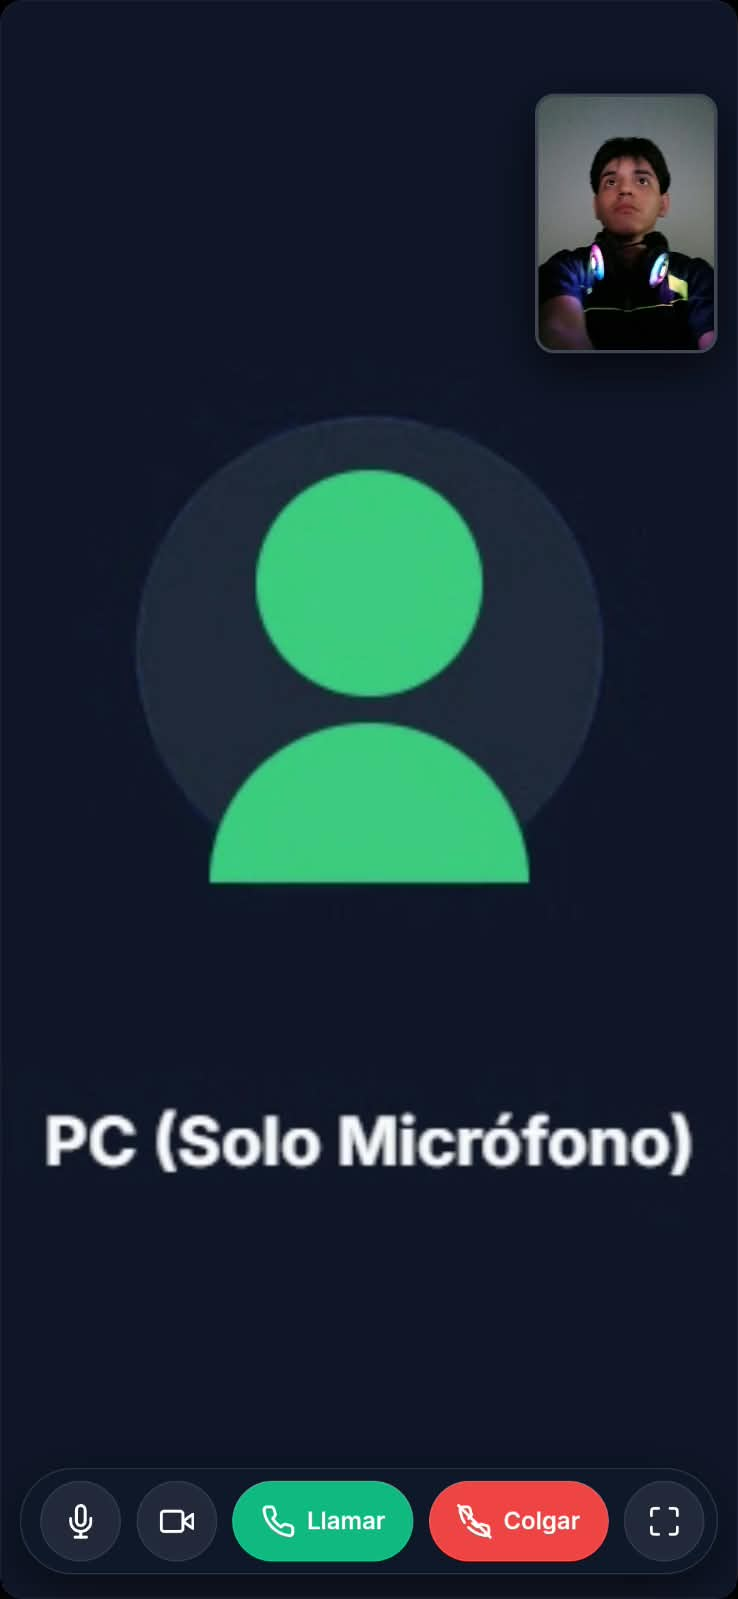
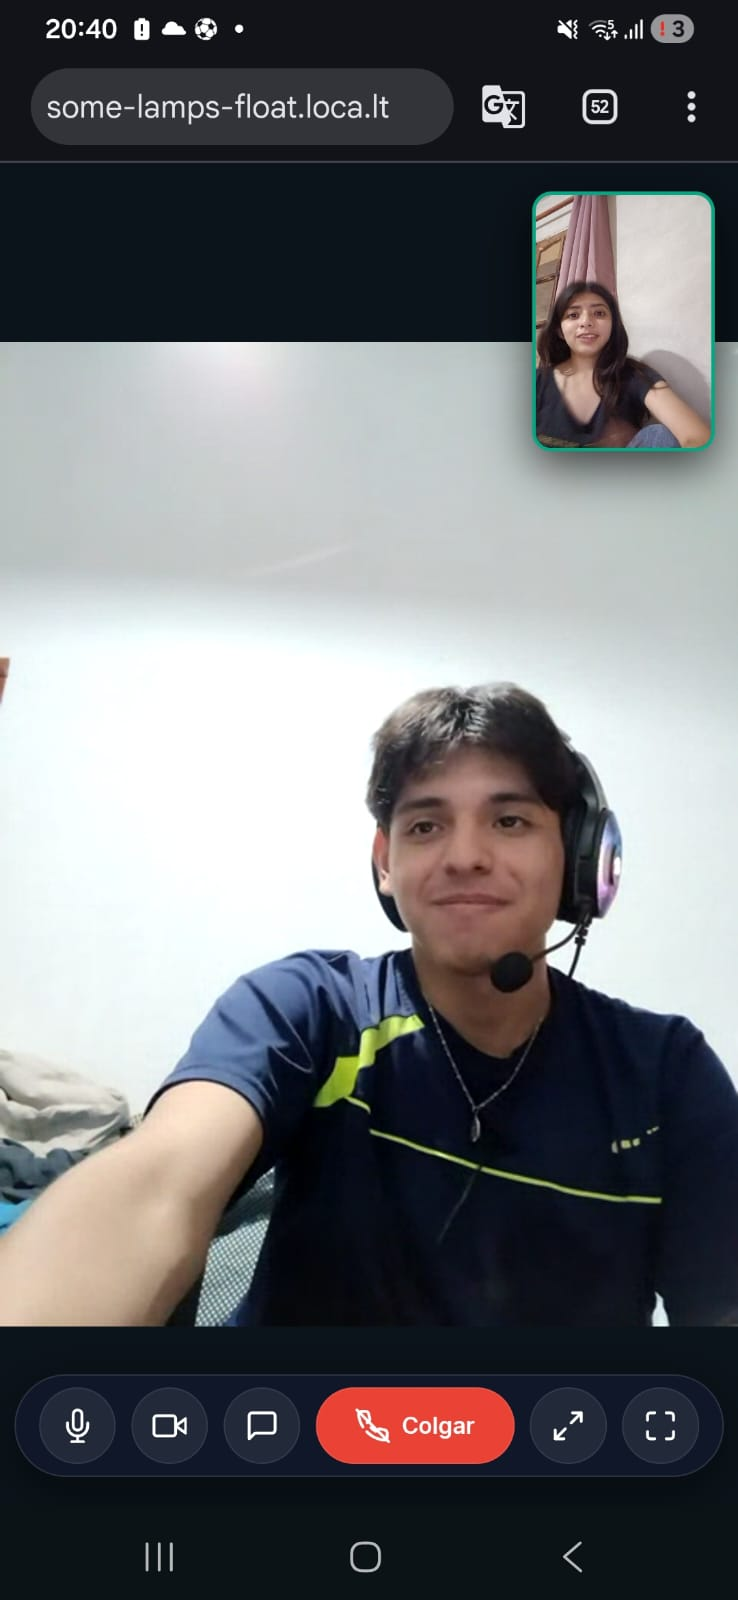
docs: actualizar captura de videollamada y agregar captura del chat en README

diff --git a/README.md b/README.md
@@ -205,6 +205,11 @@ Muestra el registro de eventos en la terminal de Node.js durante el intercambio 
 
 ![Consola del Servidor de Señalización](./docs/captura-servidor.png)
 
+#### 3. Interfaz de Chat en Tiempo Real y Lista de Contactos
+Muestra el panel de mensajería punto a punto estilo WhatsApp con intercambio de texto en vivo y detección dinámica de dispositivos:
+
+![Interfaz de Chat en Tiempo Real](./docs/captura-chat.png)
+
 ---
 
 ## 5. Guía de Ejecución y Pruebas
